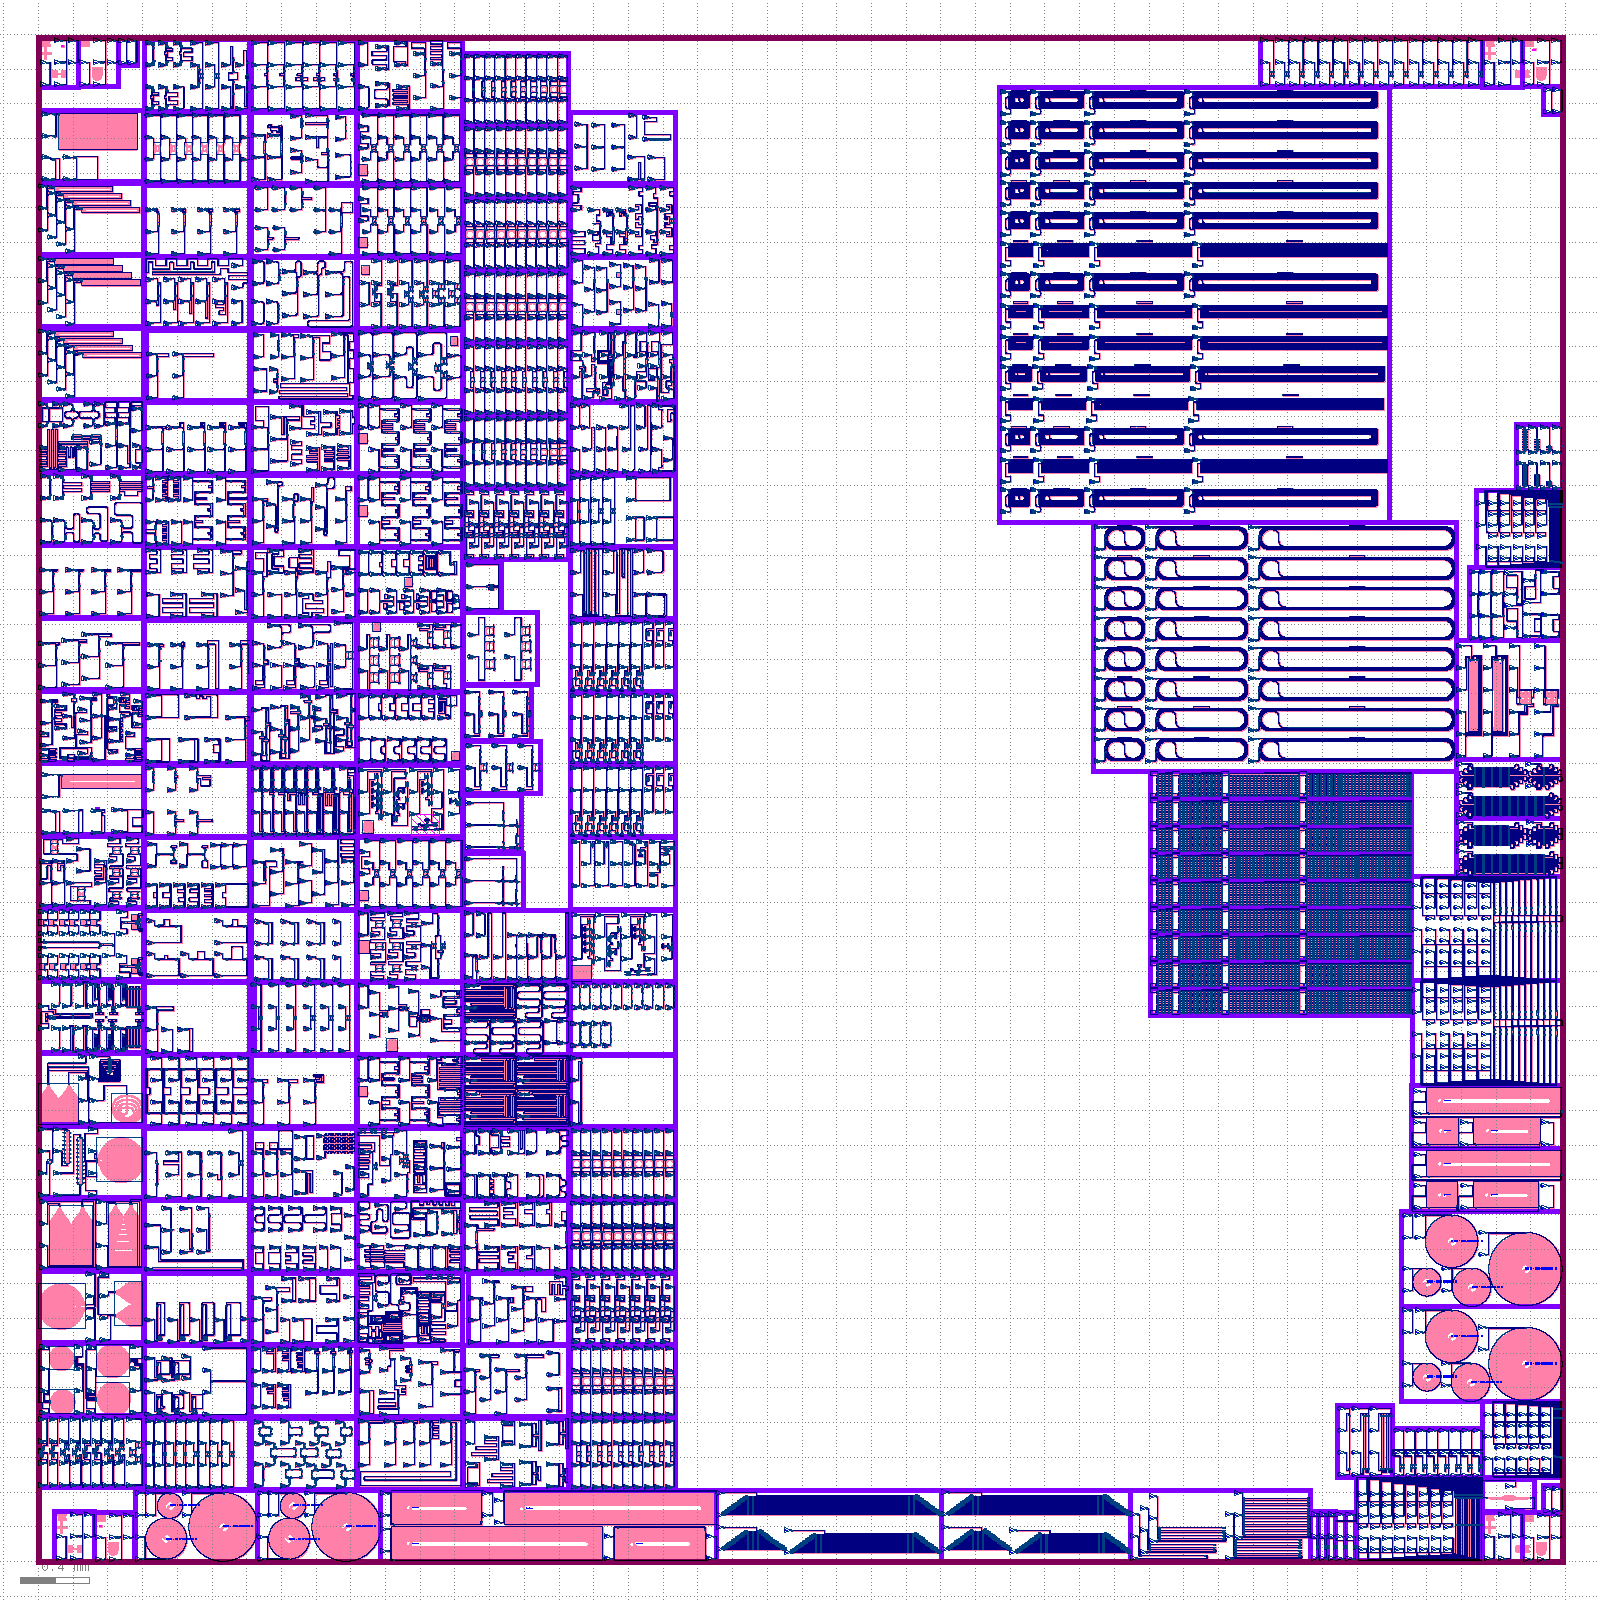
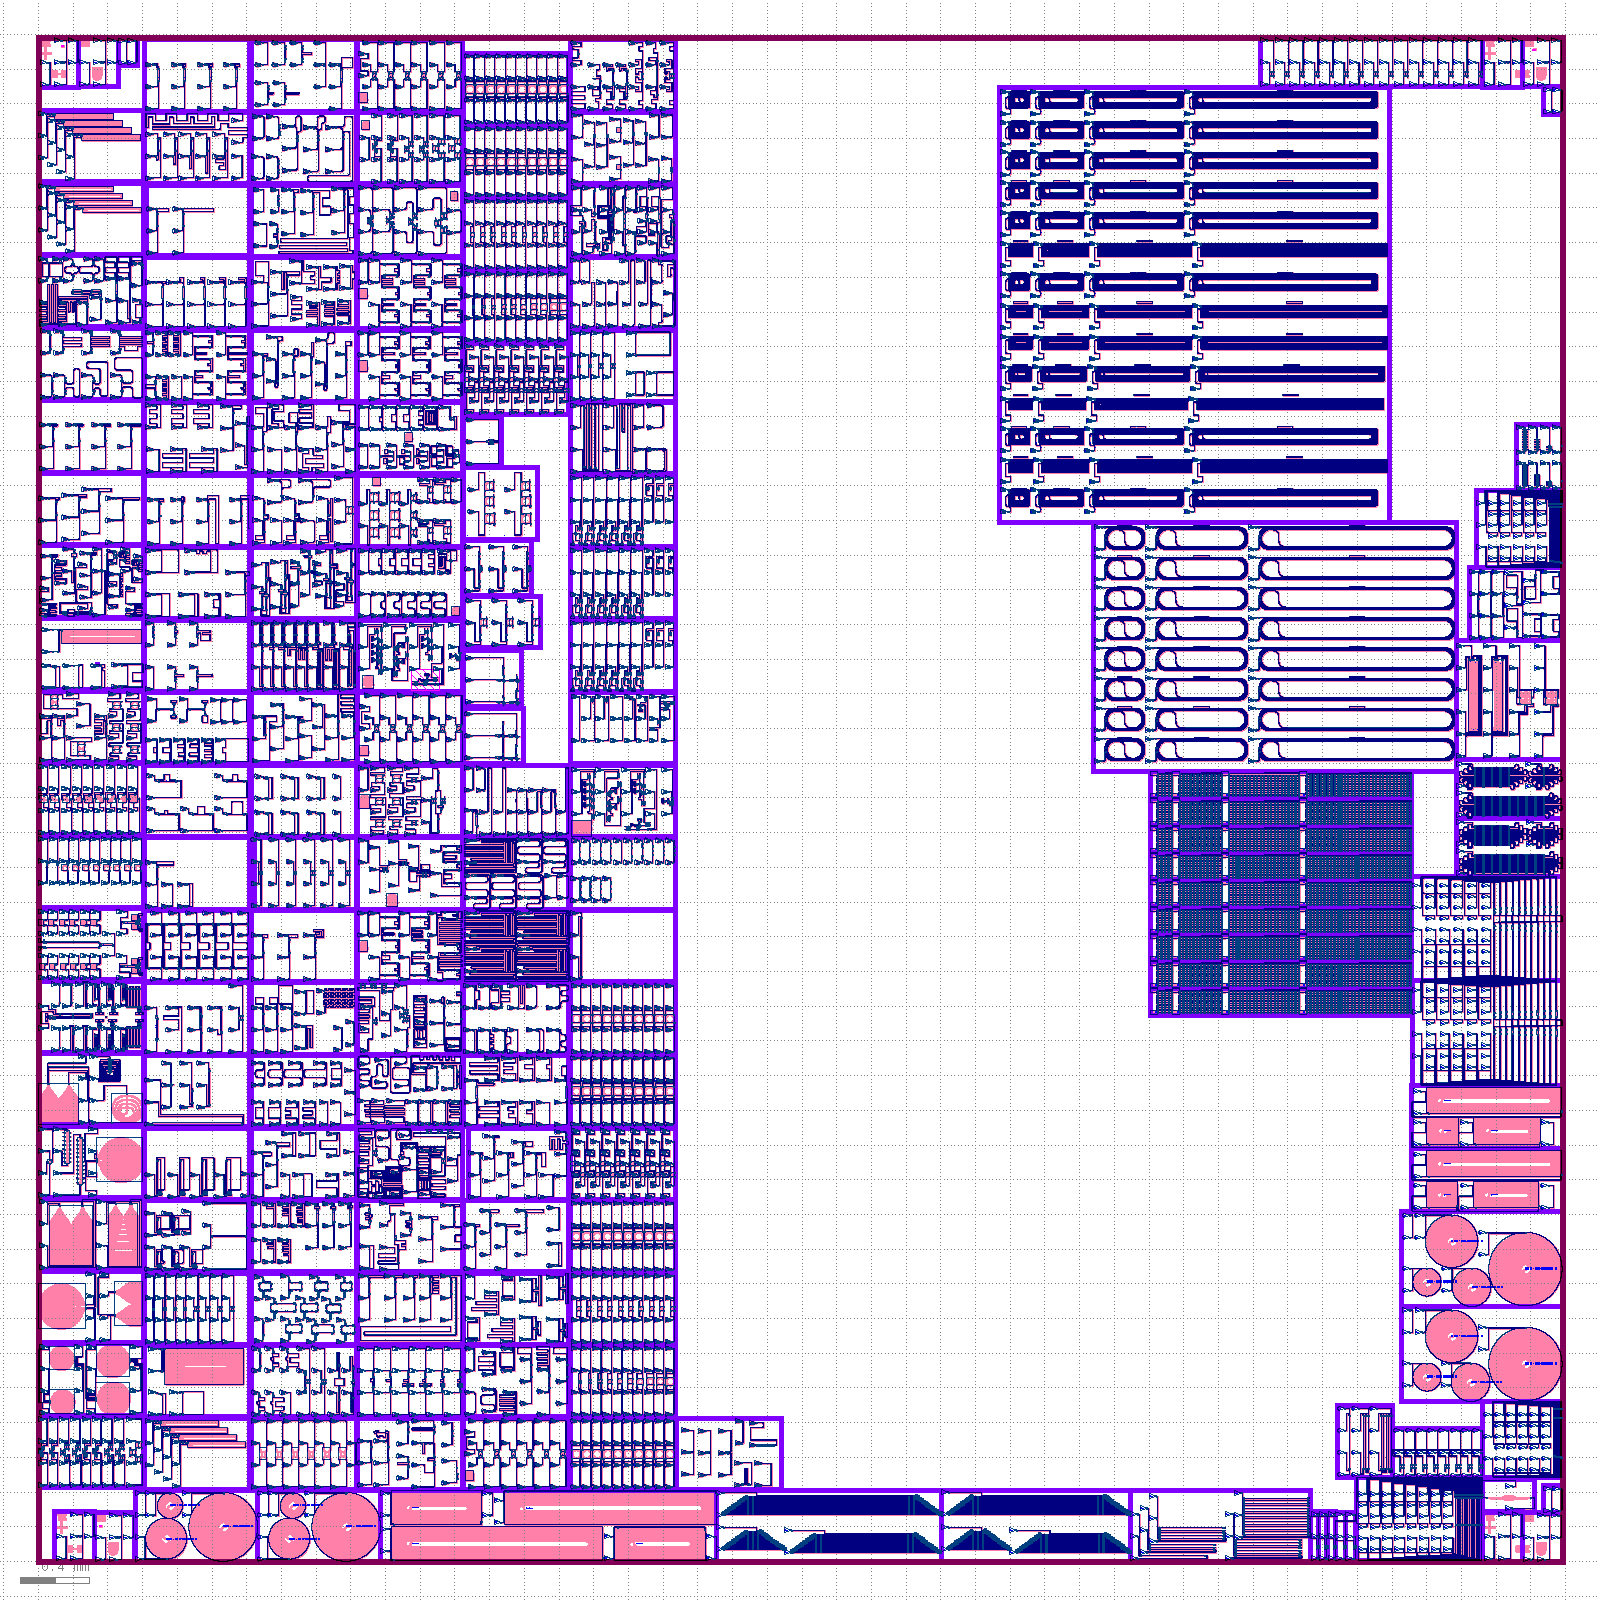
Aggregation layout: https://github.com/SiEPIC/openEBL-2026-05/actions/runs/25967411582/artifacts/7035042974

Changed region(s): [[0.0, 0.0, 0.5, 0.9375]]

diff --git a/README.md b/README.md
@@ -91,5 +91,5 @@ Will be added here.
 
 Click on the following link to download the EBeam.oas merged layout file:
 <!-- start-link -->
-https://github.com/SiEPIC/openEBL-2026-05/actions/runs/25964019042/artifacts/7034005605
+https://github.com/SiEPIC/openEBL-2026-05/actions/runs/25967411582/artifacts/7035042974
 <!-- end-link -->